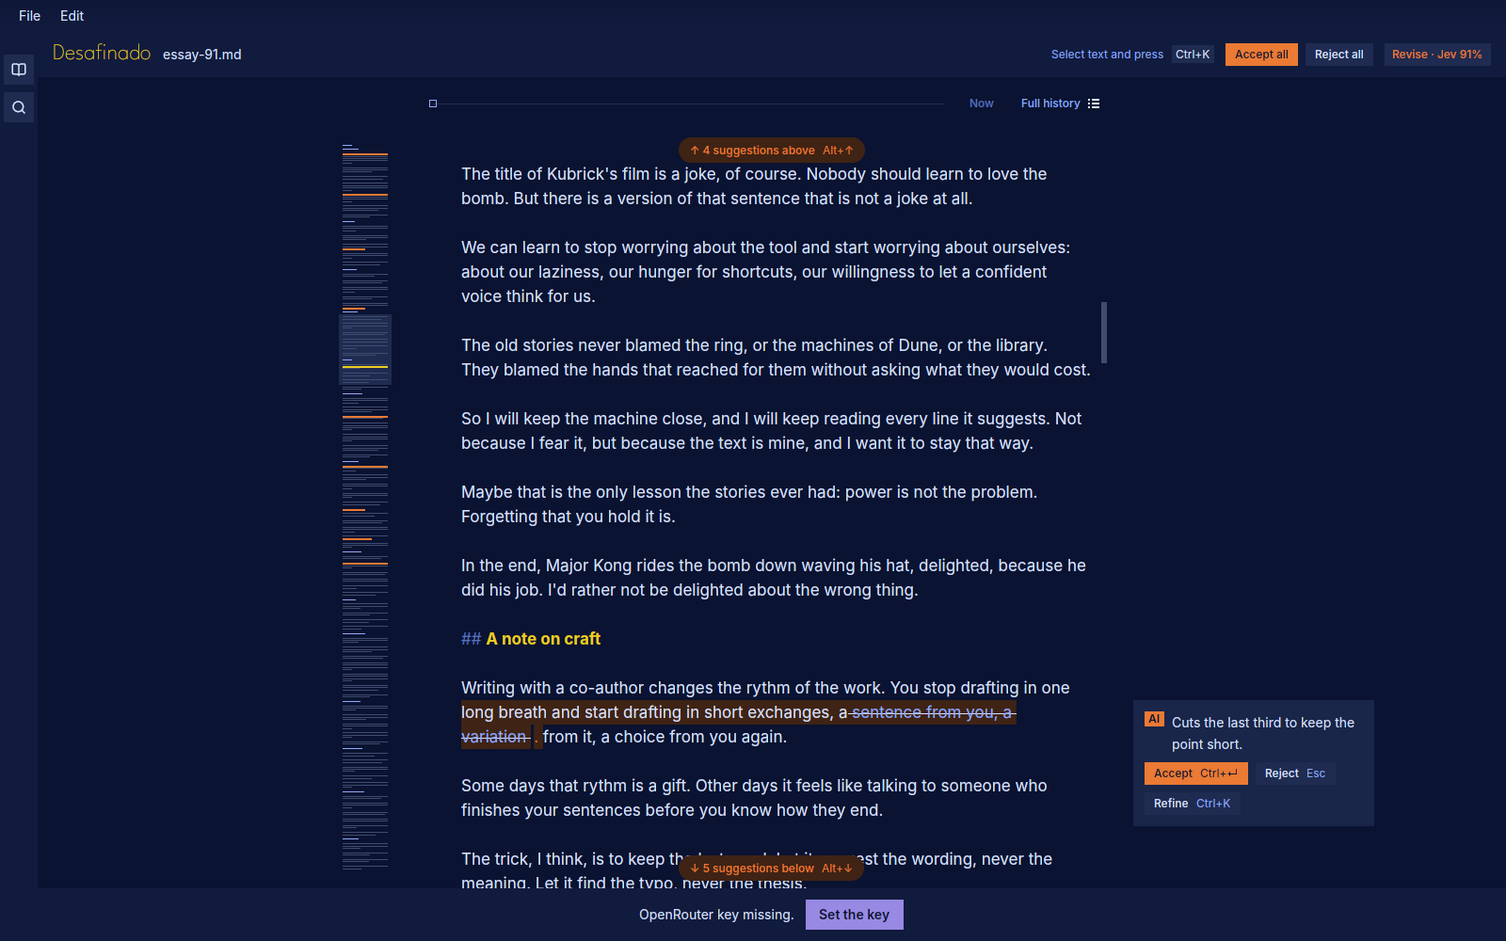
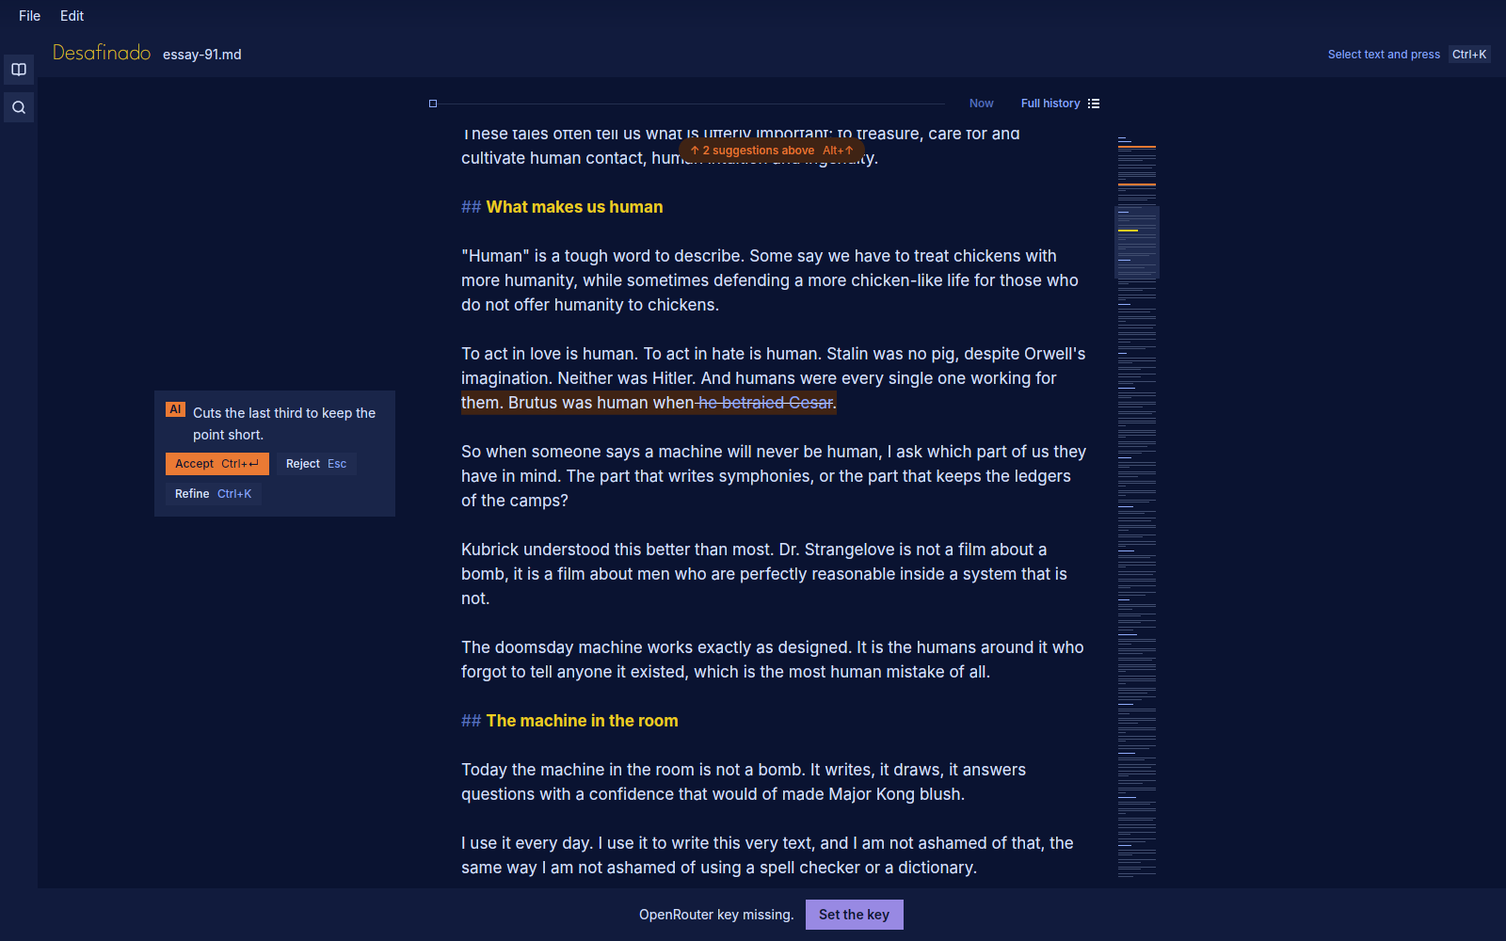
feat: text map in the scrollbar's place, cards in the left margin
Claude-Session: https://claude.ai/code/session_0177eYEEatJqwJbNqPoEkfMU

diff --git a/crates/app/src/text_map_view.rs b/crates/app/src/text_map_view.rs
@@ -1,5 +1,7 @@
-//! Suggestions past the edges of the screen: the text map beside the column, and a chip at the
-//! top and the foot of the text that counts them and goes to the nearest one.
+//! The text map, which stands where the scrollbar was: the Document in miniature, with the
+//! Suggestions in it and the part on screen; a click or a drag scrolls there. And a chip at the
+//! top and the foot of the text that counts the Suggestions past that edge and goes to the
+//! nearest one.
 
 use desafinado_core::{
     suggestions::{RefineState, Suggestion, active_suggestion, suggestion_anchor},
@@ -8,16 +10,18 @@ use desafinado_core::{
         reveal_first_row, scroll_row_for, step_in_view, text_map,
     },
 };
-use gpui_kit::{base::input::BufferPoint, *};
+use gpui_kit::{
+    base::input::{BufferPoint, EditorScrollbarRenderer},
+    *,
+};
 use std::rc::Rc;
 
 use crate::{editor_pane::EditorPane, theme::Roles, ui};
 
-const MAP_WIDTH: f32 = 48.;
-/// Room left of the column for the Notes' marks, and the gap before the map.
-const NOTE_MARKS: f32 = 32.;
-const MAP_GAP: f32 = 16.;
-const MAP_INSET: f32 = 16.;
+const MAP_WIDTH: f32 = 40.;
+/// From the right edge of the text to the map.
+const MAP_GAP: f32 = 8.;
+const MAP_INSET: f32 = 8.;
 const CHIP_INSET: f32 = 8.;
 /// How close a click on the map must land to a Suggestion's bar to open it.
 const MAP_REACH: f32 = 6.;
@@ -102,10 +106,7 @@ impl EditorPane {
         }
     }
 
-    pub(crate) fn map_frame(&self, cx: &App) -> Option<MapFrame> {
-        if self.suggestions.items.is_empty() {
-            return None;
-        }
+    fn map_frame(&self, cx: &App) -> Option<MapFrame> {
         let state = self.editor.read(cx);
         let (lines, view, line_height) = self.rows_on_screen(cx)?;
         let active = active_suggestion(&self.suggestions, Some(state.cursor()))
@@ -142,14 +143,15 @@ impl EditorPane {
         suggestion_anchor(&self.suggestions, frame.ids.get(index)?)
     }
 
-    /// The map's left edge in the pane, when the margin left of the column has room for it.
-    fn map_left(&self) -> Option<Pixels> {
+    /// The map's left edge in the pane, right of the text where the scrollbar was, when the pane
+    /// has room for it. Without room the editor keeps its own scrollbar.
+    pub(crate) fn map_left(&self) -> Option<Pixels> {
         let pane = self.pane_bounds();
-        let left = self.content_left() - pane.origin.x - px(NOTE_MARKS + MAP_GAP + MAP_WIDTH);
-        (left >= px(MAP_INSET)).then_some(left)
+        let left = self.content_right() - pane.origin.x + px(MAP_GAP);
+        (left + px(MAP_WIDTH + MAP_INSET) <= pane.size.width).then_some(left)
     }
 
-    pub(crate) fn render_text_map(
+    fn render_text_map(
         &self,
         frame: &MapFrame,
         roles: Roles,
@@ -175,22 +177,36 @@ impl EditorPane {
         let band = ui::text_map_band(px(map.band_top), px(map.band_height), roles);
         let height = px(map.height);
         let origin_y = pane.origin.y + px(MAP_INSET);
-        let click = MapClick {
+        let click = Rc::new(MapClick {
             marks: Rc::clone(&frame.marks),
             ids: Rc::clone(&frame.ids),
             map,
             view_rows: frame.view.rows,
             line_height: frame.line_height,
-        };
+        });
+        let drag = Rc::clone(&click);
+        let line_height = frame.line_height;
         let element = ui::text_map_frame("text-map", px(MAP_WIDTH), height)
             .absolute()
             .left(left)
             .top(px(MAP_INSET))
             .child(band)
             .children(bars)
-            .on_click(cx.listener(move |this, event: &ClickEvent, window, cx| {
-                let y = f32::from(event.position().y - origin_y);
-                this.on_map_click(&click, y, window, cx);
+            .on_mouse_down(
+                MouseButton::Left,
+                cx.listener(move |this, event: &MouseDownEvent, window, cx| {
+                    let y = f32::from(event.position.y - origin_y);
+                    this.on_map_click(&click, y, window, cx);
+                }),
+            )
+            .on_scroll(cx.listener(move |this, event: &ScrollEvent, _, cx| {
+                this.scroll_by(event.delta.pixel_delta(line_height).y, cx);
+            }))
+            .on_mouse_move(cx.listener(move |this, event: &MouseMoveEvent, _, cx| {
+                if event.pressed_button == Some(MouseButton::Left) {
+                    let y = f32::from(event.position.y - origin_y);
+                    this.scroll_map_to(&drag, y, cx);
+                }
             }));
         Some(element.into_any_element())
     }
@@ -208,6 +224,45 @@ impl EditorPane {
             self.go_to_suggestion(id, window, cx);
             return;
         }
+        self.scroll_map_to(click, y, cx);
+    }
+
+    fn scroll_by(&mut self, delta: Pixels, cx: &mut Context<Self>) {
+        self.editor.update(cx, |state, cx| {
+            let offset = state.scroll_offset();
+            state.set_scroll_offset(point(offset.x, (offset.y + delta).min(px(0.))), cx);
+        });
+        cx.notify();
+    }
+
+    /// The text map and the edge chips, with the editor's scrollbar hidden while the map shows.
+    pub(crate) fn render_map_and_chips(
+        &self,
+        roles: Roles,
+        cx: &mut Context<Self>,
+    ) -> Vec<AnyElement> {
+        self.hide_scrollbar_under_map(cx);
+        let Some(frame) = self.map_frame(cx) else {
+            return Vec::new();
+        };
+        let map = self.render_text_map(&frame, roles, cx);
+        map.into_iter()
+            .chain(self.render_edge_chips(&frame, roles, cx))
+            .collect()
+    }
+
+    /// While the map stands in for it, the editor draws no scrollbar of its own.
+    fn hide_scrollbar_under_map(&self, cx: &mut Context<Self>) {
+        let shown = self.map_left().is_some();
+        self.editor.update(cx, |state, _| {
+            state.set_scrollbar_renderer(shown.then(|| {
+                let empty: EditorScrollbarRenderer = Rc::new(|_, _, _| div().into_any_element());
+                empty
+            }));
+        });
+    }
+
+    fn scroll_map_to(&mut self, click: &MapClick, y: f32, cx: &mut Context<Self>) {
         let row = scroll_row_for(&click.map, y, click.view_rows);
         self.editor.update(cx, |state, cx| {
             state.set_scroll_offset(point(px(0.), -(click.line_height * row)), cx);
@@ -232,7 +287,7 @@ impl EditorPane {
         cx.notify();
     }
 
-    pub(crate) fn render_edge_chips(
+    fn render_edge_chips(
         &self,
         frame: &MapFrame,
         roles: Roles,

diff --git a/crates/ai/src/editor/card_placement.rs b/crates/ai/src/editor/card_placement.rs
@@ -1,5 +1,3 @@
-use super::geometry::Rect;
-
 #[derive(Debug, Clone, Copy, PartialEq, Eq, Default)]
 pub enum CardPlacement {
     Margin,
@@ -8,24 +6,23 @@ pub enum CardPlacement {
 }
 
 pub const MARGIN_CARD_WIDTH: f64 = 256.0;
-const MARGIN_GAP: f64 = 24.0;
+/// Room between a margin card and the text, which keeps the Note marks beside the text clear.
+const MARGIN_GAP: f64 = 40.0;
 const VIEWPORT_GUTTER: f64 = 16.0;
 
-pub fn placement_for(content_right: f64, viewport_width: f64) -> CardPlacement {
-    if viewport_width - content_right >= MARGIN_GAP + MARGIN_CARD_WIDTH + VIEWPORT_GUTTER {
+/// Cards sit in the margin left of the text when one fits there; the right of the text is the
+/// text map's.
+pub fn placement_for(content_left: f64) -> CardPlacement {
+    if content_left >= MARGIN_GAP + MARGIN_CARD_WIDTH + VIEWPORT_GUTTER {
         CardPlacement::Margin
     } else {
         CardPlacement::Floating
     }
 }
 
-pub fn margin_anchor(content_right: f64, line_top: f64) -> Rect {
-    Rect {
-        left: content_right + MARGIN_GAP,
-        right: content_right + MARGIN_GAP,
-        top: line_top,
-        bottom: line_top,
-    }
+/// The left edge of a card in the margin, one gap left of the text.
+pub fn margin_card_left(content_left: f64) -> f64 {
+    content_left - MARGIN_GAP - MARGIN_CARD_WIDTH
 }
 
 pub fn latest_placement(current: CardPlacement, effects: &[CardPlacement]) -> CardPlacement {
@@ -41,36 +38,29 @@ mod tests {
 
     #[test]
     fn puts_cards_in_the_margin_when_a_card_its_gap_and_the_gutter_fit() {
-        assert_eq!(placement_for(1016.0, 1312.0), CardPlacement::Margin);
+        assert_eq!(placement_for(312.0), CardPlacement::Margin);
     }
 
     #[test]
     fn keeps_cards_floating_when_the_margin_is_one_pixel_short() {
-        assert_eq!(placement_for(1016.0, 1311.0), CardPlacement::Floating);
+        assert_eq!(placement_for(311.0), CardPlacement::Floating);
     }
 
     #[test]
-    fn keeps_cards_floating_when_the_text_fills_the_viewport() {
-        assert_eq!(placement_for(1000.0, 1024.0), CardPlacement::Floating);
+    fn keeps_cards_floating_when_the_text_starts_at_the_edge() {
+        assert_eq!(placement_for(24.0), CardPlacement::Floating);
     }
 
     #[test]
-    fn margin_anchor_starts_one_gap_right_of_the_text_level_with_the_line_top() {
-        assert_eq!(
-            margin_anchor(1016.0, 340.0),
-            Rect {
-                left: 1040.0,
-                right: 1040.0,
-                top: 340.0,
-                bottom: 340.0
-            }
+    fn a_margin_card_ends_one_gap_left_of_the_text() {
+        assert!(
+            (margin_card_left(400.0) + MARGIN_CARD_WIDTH - (400.0 - 40.0)).abs() < f64::EPSILON
         );
     }
 
     #[test]
-    fn margin_anchor_leaves_room_for_the_card_inside_the_measured_margin() {
-        let anchor = margin_anchor(1016.0, 0.0);
-        assert!(anchor.left + MARGIN_CARD_WIDTH <= 1312.0 - 16.0);
+    fn a_margin_card_keeps_the_gutter_from_the_window_edge() {
+        assert!(margin_card_left(312.0) >= VIEWPORT_GUTTER);
     }
 
     #[test]

diff --git a/crates/app/src/editor_pane.rs b/crates/app/src/editor_pane.rs
@@ -17,7 +17,7 @@ use desafinado_ai::{
             BubbleChange, BubbleRange, BubbleState, BubbleView, bubble_visible, next_bubble,
         },
         ask_menu::{self, AskMenu, AskRow},
-        card_placement::{CardPlacement, MARGIN_CARD_WIDTH, placement_for},
+        card_placement::{CardPlacement, MARGIN_CARD_WIDTH, margin_card_left, placement_for},
         focus_cycle::cycle_index,
         geometry::{Rect, Viewport},
         inline_diff::{block_replacement, inline_inserts, rows_before, zone_rows},
@@ -104,7 +104,6 @@ actions!(
 
 const COLUMN_WIDTH: f32 = 768.;
 const COLUMN_PADDING: f32 = 24.;
-const MARGIN_GAP: f32 = 24.;
 const BUBBLE_WIDTH: f32 = 360.;
 const BUBBLE_KEY: &str = "\u{0}bubble";
 /// Space above and below an element drawn in the rows reserved under a Suggestion.
@@ -1913,8 +1912,7 @@ impl EditorPane {
 
     pub(crate) fn card_placement(&self) -> CardPlacement {
         let pane = self.bounds.get();
-        let right = f64::from(f32::from(self.content_right() - pane.origin.x));
-        placement_for(right, f64::from(f32::from(pane.size.width)))
+        placement_for(f64::from(f32::from(self.content_left() - pane.origin.x)))
     }
 
     fn render_card(
@@ -1956,7 +1954,7 @@ impl EditorPane {
 
     fn card_enter(&self, item: &Suggestion, card: Bounds<Pixels>, cx: &App) -> ui::Enter {
         if self.card_placement() == CardPlacement::Margin {
-            return ui::Enter::Slide(-8.);
+            return ui::Enter::Slide(8.);
         }
         let anchor_at = match item {
             Suggestion::Ready(ready) => {
@@ -2004,7 +2002,7 @@ impl EditorPane {
         let placement = self.card_placement();
         let (left, flip, gap, bottom) = match placement {
             CardPlacement::Margin => (
-                self.content_right() + px(MARGIN_GAP) - origin.x,
+                px(margin_card_left(to_f64(self.content_left() - origin.x)) as f32),
                 false,
                 0.,
                 line.top() - origin.y,
@@ -2980,14 +2978,7 @@ impl Render for EditorPane {
         let marks = self.render_note_marks(roles, cx);
         let note_card = self.render_note_card(roles, cx);
         let panel = self.render_notes_panel(roles, cx);
-        let frame = self.map_frame(cx);
-        let map = frame
-            .as_ref()
-            .and_then(|frame| self.render_text_map(frame, roles, cx));
-        let chips = frame
-            .as_ref()
-            .map(|frame| self.render_edge_chips(frame, roles, cx))
-            .unwrap_or_default();
+        let map = self.render_map_and_chips(roles, cx);
         let text = div()
             .id("editor-pane")
             .key_context("EditorPane")
@@ -3039,7 +3030,6 @@ impl Render for EditorPane {
             ))
             .children(caret)
             .children(map)
-            .children(chips)
             .children(marks)
             .children(note_card)
             .children(cards)

diff --git a/crates/app/src/comment_review.rs b/crates/app/src/comment_review.rs
@@ -8,7 +8,7 @@ use std::sync::Arc;
 
 use desafinado_ai::{
     editor::{
-        card_placement::{CardPlacement, MARGIN_CARD_WIDTH},
+        card_placement::{CardPlacement, MARGIN_CARD_WIDTH, margin_card_left},
         geometry::{Rect, Viewport},
         popover_place::{PopoverInput, Side, place_popover},
     },
@@ -37,7 +37,6 @@ use crate::{
 pub const NOTES_PANEL_WIDTH: f32 = 320.;
 const MARK_SIZE: f32 = 24.;
 const MARK_GAP: f32 = 8.;
-const MARGIN_GAP: f32 = 24.;
 const NOTE_CARD_HEIGHT: f32 = 160.;
 
 /// A Review that has not answered yet: the decision, then the Comment call.
@@ -385,7 +384,8 @@ impl EditorPane {
         let width = px(MARGIN_CARD_WIDTH as f32);
         let margin = self.card_placement() == CardPlacement::Margin;
         let (left, bottom) = if margin {
-            (self.content_right() + px(MARGIN_GAP), line.top())
+            let content_left = f64::from(f32::from(self.content_left()));
+            (px(margin_card_left(content_left) as f32), line.top())
         } else {
             (self.content_right() - width, end.bottom())
         };
@@ -469,7 +469,11 @@ impl EditorPane {
             ui::enter(
                 "note-card-in",
                 card,
-                ui::Enter::Slide(-8.),
+                ui::Enter::Slide(if self.card_placement() == CardPlacement::Margin {
+                    8.
+                } else {
+                    -8.
+                }),
                 ui::MOTION_ENTER,
             )
             .into_any_element(),

diff --git a/docs/PARITY.md b/docs/PARITY.md
@@ -11,13 +11,13 @@ Every feature of `desafinado`'s Electron build (as of `b269c9c`, 2026-11-14) and
 - [x] Frontmatter: not a Block; frontmatter problems in the File menu; frontmatter panel to edit `name` and `description` (the panel sits above the editor instead of scrolling with the text; `Ctrl+Z` in a field undoes the field and writes that back as a new edit instead of undoing the Document; no screen-reader live region)
 
 ## Editor and Suggestions
-- [x] Raw Markdown with light styling, Inter, 48rem column, headings bold (headings keep the body size and fenced or inline code stays in Inter, since the GPUI editor has one font size and family per buffer: ADR 0001; scrollbars always show, in the editor, the Reading view, History, AI spend, Evals, the Library and Preferences; the Evals run dialog and its baseline list scroll without one)
+- [x] Raw Markdown with light styling, Inter, 48rem column, headings bold (headings keep the body size and fenced or inline code stays in Inter, since the GPUI editor has one font size and family per buffer: ADR 0001; scrollbars always show, in the editor (where the text map stands in for it when the window has room), the Reading view, History, AI spend, Evals, the Library and Preferences; the Evals run dialog and its baseline list scroll without one)
 - [x] Reading view (`Ctrl+Alt+R`, Edit → Reading view / Edit text, last in Edit): the Document rendered, without the frontmatter; links show their target on hover and never open (gpui-base `TextView`, so the rendered headings scale with the Document while the editor's do not; task checkboxes are drawn by `TextView` and are not interactive; code, fenced or inline, is in Noto Sans Mono (bundled), and a fenced block keeps its lines unwrapped and scrolls sideways with Shift+wheel or a sideways swipe, with no scrollbar and no language label; fenced code in a language the build knows (JSON and Markdown today, any letter case) is colored from the theme's roles: strings in success, numbers and literals in AI, keywords in accent, punctuation and comments in muted, rather than the editor's muted code colors; selectable text; anything that needs the editor, such as Review, Accept all or a toast's Show and Retry, leaves Reading view first, and so does opening History, Evals or AI spend; entering it closes the Ask bubble and a Refine field; the shortcut does nothing while a dialog, Preferences, the Review popover, the Ask bubble, a Refine field, the Library search or a frontmatter field is open or focused)
 - [x] Bubble (`Ctrl+K`): Quick actions by typing, `↑` `↓` `Enter`, "Ask AI: …" free text (also shows on its own over a mouse or keyboard selection and hides while the pointer is down, as in Electron; `Esc` closes it and keeps it closed for that selection; it fades and rises in like Electron's and, beyond it, its Quick action rows enter one after another and it fades out on close, without the 0.98 scale and 3 px blur, which GPUI cannot do on a whole surface; the same holds for menus, the Review popover, Cards and the toast; a Card fades in again when it scrolls back into view, because the native build stops drawing Cards above the view; a hover Card waits 160 ms before it enters, as in Electron; reduced motion follows the desktop portal's setting, live, through gpui-base)
 - [x] Target: selection or the Block under the cursor; Neighbors and title/section as context (the Target is previewed with the selection fill while the bubble is open)
-- [x] Suggestion overlay: deleted text struck through, Replacement in the AI color, Changes counted, Rationale (a word-level Replacement shows in the line after the struck-through Original and a block-level one in rows opened under the range, on a patched gpui-base, ADR 0003; a line break inside a word-level Replacement shows as ↵ instead of breaking the line; the Card, in the right margin when the window is wide enough and floating under the range otherwise, holds versions, Rationale, Changes and the actions; no shimmer or word-by-word reveal)
+- [x] Suggestion overlay: deleted text struck through, Replacement in the AI color, Changes counted, Rationale (a word-level Replacement shows in the line after the struck-through Original and a block-level one in rows opened under the range, on a patched gpui-base, ADR 0003; a line break inside a word-level Replacement shows as ↵ instead of breaking the line; the Card, in the left margin when the window is wide enough (the right is the text map's) and floating under the range otherwise, holds versions, Rationale, Changes and the actions; no shimmer or word-by-word reveal)
 - [x] Card with Accept (`Ctrl+Enter`), Reject (`Esc`), Refine; Refine steps `‹ n / m ›` (`Ctrl+H` / `Ctrl+L`); `Alt+[` `Alt+]` between Suggestions; `Tab` into the Card (Reject is undoable with `Ctrl+Z` until the writer edits the text again, a stack standing in for the CodeMirror effect; `Ctrl+H` inside a Suggestion with one version does nothing instead of falling through to Find and replace; the focused Card button has a 2px accent border instead of an outline ring)
-- [x] Native only: while Suggestions are open, a text map left of the column (the Document in miniature, Suggestion rows in the AI color, the rows on screen on the fill; a click goes there) and a chip at the top and the foot of the text counting the Suggestions past that edge (`Alt+↑` / `Alt+↓` go to them); accepting or rejecting moves the caret on to the next Suggestion
+- [x] Native only: a text map right of the text, in place of the editor's scrollbar when the window has room for it (the Document in miniature, Suggestion rows in the AI color, the rows on screen on the fill; a click on a Suggestion goes there, a click elsewhere, a drag or the wheel scrolls) and a chip at the top and the foot of the text counting the Suggestions past that edge (`Alt+↑` / `Alt+↓` go to them); accepting or rejecting moves the caret on to the next Suggestion
 - [x] Accept is an undoable edit; Discard when the writer edits inside a Suggestion or a newer one overlaps (Accept leaves the cursor at the end of the Replacement)
 - [x] AI caret with flag and Instruction while the AI works ("Reviewing" during a Review pass; the flag flips left at the right edge; the bar breathes and the three dots pulse as in Electron, 4 px apart instead of 2 to stay on the 4 px grid; no caret glide)
 - [x] Review pass with Focus (Edit → Review…), streamed one Suggestion at a time, Stop; Accept all / Reject all (at most 6 Suggestions, one retry when the first answer is invalid and nothing validated yet; Accept all and Reject all act on review Suggestions only, and Accept all is one undoable edit; the first Suggestion is revealed when the pass ends if the editor is not focused)

diff --git a/README.md b/README.md
@@ -13,7 +13,7 @@ The AI proposes; your voice wins. Every change it suggests sits in your text as 
 **Write with the AI.**
 
 - Select text, or put the cursor in a paragraph, and press `Ctrl+K`. Pick a Quick action (Shorter, Clearer, Fix grammar, or one of your own) or type any instruction.
-- The answer shows in place: the old text struck through and the new text next to it, or in a block under the paragraph when most of it changes, with a one-line rationale on a card in the margin. Accept (`Ctrl+Enter`), Reject (`Esc`), or Refine it ("shorter", then "now more formal") and step between versions with `Ctrl+H` and `Ctrl+L`.
+- The answer shows in place: the old text struck through and the new text next to it, or in a block under the paragraph when most of it changes, with a one-line rationale on a card in the left margin. Accept (`Ctrl+Enter`), Reject (`Esc`), or Refine it ("shorter", then "now more formal") and step between versions with `Ctrl+H` and `Ctrl+L`.
 - Accept is a normal edit, so `Ctrl+Z` undoes it.
 - **Edit → Review…** reads the whole document as an editor who comments. Without a focus, or with one that asks for an opinion ("what about the tone?"), it leaves Notes and does not touch the text: General notes in a panel beside the text, and a numbered mark in the margin for each Note, the 15 most important first. Click a mark to read its Note; **Suggest rewrite** turns that one Note into a Suggestion. When the focus asks for changes ("fix the spelling"), it streams up to six suggestions instead, with Accept all and Reject all. Jev, a small decision model on OpenRouter, reads the focus and picks the mode; the chip in the header shows its choice, and clicking it runs the Review again in the other mode.
 
@@ -32,7 +32,7 @@ The app talks to [OpenRouter](https://openrouter.ai) directly. You bring your ow
 Every feature of the Electron build works here; [docs/PARITY.md](docs/PARITY.md) lists them one by one, with each place the native build behaves differently. The main differences come from GPUI:
 
 - In the editor, headings are bold but keep the body text size, and code uses the body font. The Reading view shows both as they should be.
-- Menus, the bubble, Cards, toasts and the Library fade and slide in, and the AI caret breathes, as in Electron (without its slight scale and blur). Beyond Electron, the Library and Preferences also slide out to their own sides, the bubble fades out and its Quick action rows enter one after another, the Quick actions list in Preferences glides on reorder and shrinks a deleted row, and the AI spend charts grow in. Scrollbars always show in the editor, the Reading view and the scrolling pages and panels (not yet in the Evals run dialog). Still missing: the caret glide, the shimmer, the word-by-word reveal, the rise of the Review toolbar and Refine row, hover transitions, the unfold of descriptions and lists, the exit motion of menus, Cards and toasts, and the theme crossfade. With reduced motion on in the desktop (the XDG portal setting GNOME and KDE back), surfaces appear at rest and the AI caret's dots hold still.
+- Menus, the bubble, Cards, toasts and the Library fade and slide in, and the AI caret breathes, as in Electron (without its slight scale and blur). Beyond Electron, the Library and Preferences also slide out to their own sides, the bubble fades out and its Quick action rows enter one after another, the Quick actions list in Preferences glides on reorder and shrinks a deleted row, and the AI spend charts grow in. Scrollbars always show in the editor (or the text map in its place), the Reading view and the scrolling pages and panels (not yet in the Evals run dialog). Still missing: the caret glide, the shimmer, the word-by-word reveal, the rise of the Review toolbar and Refine row, hover transitions, the unfold of descriptions and lists, the exit motion of menus, Cards and toasts, and the theme crossfade. With reduced motion on in the desktop (the XDG portal setting GNOME and KDE back), surfaces appear at rest and the AI caret's dots hold still.
 
 Linux only. There is no distribution package yet: you build and install it from this repository. The decision to build on GPUI is recorded in [ADR 0001](docs/adr/0001-native-app-on-rust-and-gpui.md).
 
